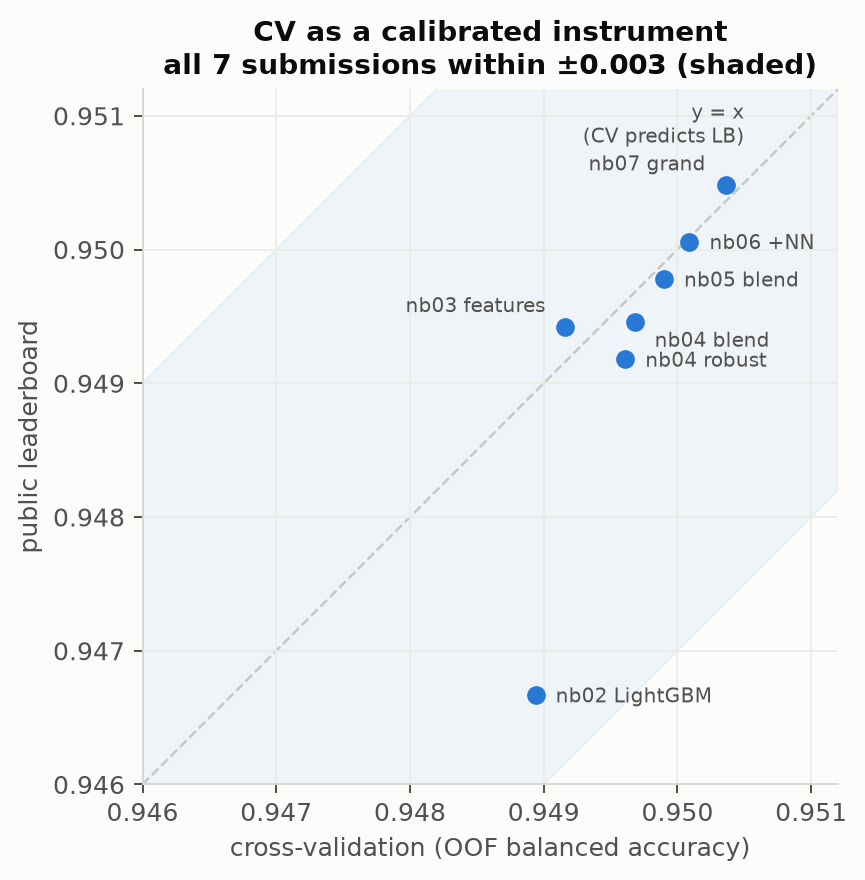
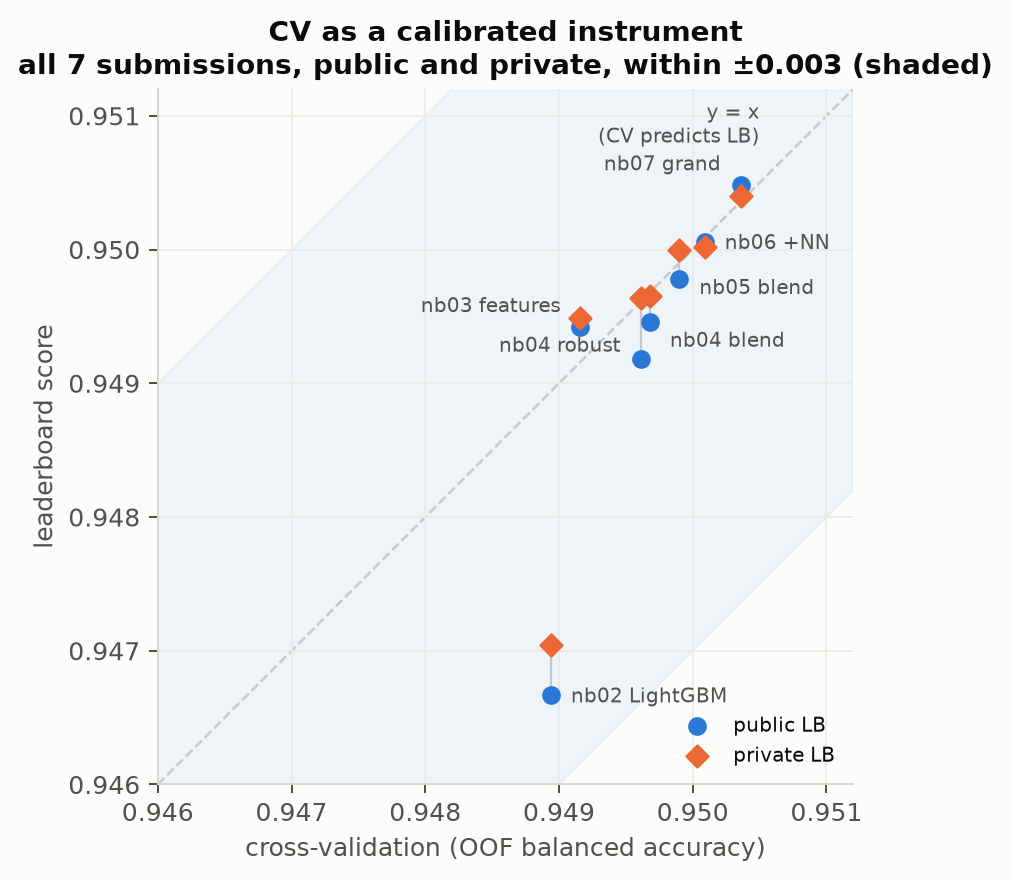
Record final private-leaderboard result: 0.95040, rank 209 of 3356

diff --git a/src/make_figures.py b/src/make_figures.py
@@ -59,10 +59,11 @@ def score_arc():
     zx, zcv = x[2:], cv[2:]
     a2.plot(zx, zcv, drawstyle='steps-post', color=BLUE, lw=2, zorder=3)
     a2.scatter(zx, zcv, color=BLUE, s=28, zorder=4)
-    a2.scatter([zx[-1]], [0.95048], color=ORANGE, s=46, zorder=5, marker='D')
-    a2.annotate('final public LB 0.95048\n(top 15.5% of 2192)', (zx[-1], 0.95048),
-                xytext=(3.6, 0.95055), fontsize=8.5, color=INK, ha='right',
-                fontweight='bold')
+    a2.scatter([zx[-1] + 0.25], [0.95040], color=ORANGE, s=46, zorder=5,
+               marker='D')
+    a2.annotate('final private LB 0.95040\nrank 209 of 3356 (top 6.2%)',
+                (zx[-1] + 0.25, 0.95040), xytext=(3.6, 0.95055), fontsize=8.5,
+                color=INK, ha='right', fontweight='bold')
     for xi, yi in zip(zx, zcv):
         a2.annotate(f'{yi:.5f}', (xi, yi), xytext=(0, -13),
                     textcoords='offset points', ha='center', fontsize=7.5,
@@ -80,36 +81,41 @@ def score_arc():
 
 
 def cv_lb_calibration():
-    subs = [('nb02 LightGBM', 0.94894, 0.94667),
-            ('nb03 features', 0.94916, 0.94942),
-            ('nb04 blend', 0.94968, 0.94946),
-            ('nb04 robust', 0.94961, 0.94918),
-            ('nb05 blend', 0.94990, 0.94978),
-            ('nb06 +NN', 0.95009, 0.95006),
-            ('nb07 grand', 0.95036, 0.95048)]
-    names, cvs, lbs = zip(*subs)
+    subs = [('nb02 LightGBM', 0.94894, 0.94667, 0.94704),
+            ('nb03 features', 0.94916, 0.94942, 0.94949),
+            ('nb04 blend', 0.94968, 0.94946, 0.94965),
+            ('nb04 robust', 0.94961, 0.94918, 0.94964),
+            ('nb05 blend', 0.94990, 0.94978, 0.95000),
+            ('nb06 +NN', 0.95009, 0.95006, 0.95002),
+            ('nb07 grand', 0.95036, 0.95048, 0.95040)]
+    names, cvs, pubs, privs = zip(*subs)
     lo, hi = 0.9460, 0.9512
 
     fig, ax = plt.subplots(figsize=(5.4, 5.0))
     ax.plot([lo, hi], [lo, hi], color='#c9c8c3', lw=1, ls='--', zorder=1)
     ax.fill_between([lo, hi], [lo - 0.003, hi - 0.003], [lo + 0.003, hi + 0.003],
                     color=BLUE, alpha=0.06, zorder=0)
-    ax.scatter(cvs, lbs, color=BLUE, s=42, zorder=3)
+    for c, pu, pr in zip(cvs, pubs, privs):
+        ax.plot([c, c], [pu, pr], color='#c9c8c3', lw=0.9, zorder=2)
+    ax.scatter(cvs, pubs, color=BLUE, s=42, zorder=3, label='public LB')
+    ax.scatter(cvs, privs, color=ORANGE, s=38, zorder=3, marker='D',
+               label='private LB')
     offsets = {'nb02 LightGBM': (8, -3), 'nb03 features': (-8, 6),
-               'nb04 blend': (8, -10), 'nb04 robust': (8, -3),
-               'nb05 blend': (8, -3), 'nb06 +NN': (8, -3),
+               'nb04 blend': (8, -10), 'nb04 robust': (-8, 3),
+               'nb05 blend': (8, -6), 'nb06 +NN': (8, -3),
                'nb07 grand': (-8, 6)}
-    for n, c, l in subs:
+    for n, c, pu, pr in subs:
         dx, dy = offsets[n]
-        ax.annotate(n, (c, l), xytext=(dx, dy), textcoords='offset points',
+        ax.annotate(n, (c, pu), xytext=(dx, dy), textcoords='offset points',
                     fontsize=8, color=INK2,
                     ha='left' if dx > 0 else 'right')
     ax.annotate('y = x\n(CV predicts LB)', (0.9505, 0.9508), fontsize=8,
                 color=INK2, ha='right')
+    ax.legend(loc='lower right', fontsize=8, frameon=False)
     ax.set_xlim(lo, hi); ax.set_ylim(lo, hi)
     ax.set_xlabel('cross-validation (OOF balanced accuracy)')
-    ax.set_ylabel('public leaderboard')
-    ax.set_title('CV as a calibrated instrument\nall 7 submissions within ±0.003 (shaded)')
+    ax.set_ylabel('leaderboard score')
+    ax.set_title('CV as a calibrated instrument\nall 7 submissions, public and private, within ±0.003 (shaded)')
     ax.grid(color='#ebeae6', lw=0.7, zorder=0)
     ax.set_aspect('equal')
     fig.tight_layout()

diff --git a/README.md b/README.md
@@ -1,8 +1,8 @@
 # Kaggle Playground S6E7 — Predicting Student Health Risk
 
 ![Kaggle](https://img.shields.io/badge/Kaggle-Playground_S6E7-20BEFF?logo=kaggle&logoColor=white)
-![Public LB](https://img.shields.io/badge/public_LB-0.95048-2a78d6)
-![Rank](https://img.shields.io/badge/rank-top_15.5%25_of_2192-2a78d6)
+![Private LB](https://img.shields.io/badge/private_LB-0.95040-2a78d6)
+![Final Rank](https://img.shields.io/badge/final_rank-209_of_3356_%28top_6.2%25%29-2a78d6)
 ![Experiments](https://img.shields.io/badge/experiments_logged-13-eb6834)
 ![Python](https://img.shields.io/badge/Python-3.13-3776AB?logo=python&logoColor=white)
 ![License](https://img.shields.io/badge/license-MIT-008300)
@@ -11,10 +11,12 @@ A hypothesis-driven run at [Kaggle Playground S6E7](https://www.kaggle.com/compe
 3-class classification of student health condition (86% / 8.4% / 5.8% class split, 690k rows,
 13 features with heavy missingness), scored by **balanced accuracy**.
 
-**Final: public LB 0.95048 — top 15.5% of 2,192 teams — with every point of the score
-accounted for in an [experiment ledger](experiments.md).** Thirteen logged experiments,
-five falsified hypotheses, seven submissions, and a cross-validation setup that never
-missed the leaderboard by more than 0.003.
+**Final: private LB 0.95040 — rank 209 of 3,356 teams (top 6.2%) — with every point of
+the score accounted for in an [experiment ledger](experiments.md).** Thirteen logged
+experiments, five falsified hypotheses, seven submissions, and a cross-validation setup
+that never missed the leaderboard, public or private, by more than 0.003. When the
+private leaderboard resolved, the final CV estimate (0.95036) was off by 0.00004, and
+the entry climbed 386 places past public-leaderboard chasers.
 
 ![Score arc](assets/score-arc.png)
 
@@ -28,6 +30,7 @@ missed the leaderboard by more than 0.003.
 | + cross-implementation blend | 0.9498 | Implementation diversity (CatBoost, HistGradientBoosting) |
 | + torch NN member | 0.9501 | Function-class diversity |
 | + CatBoost-native exact-value TE + greedy blend | **0.9505** | The one verified feature edge, encoded the tree-safe way |
+| Private leaderboard reveal | **0.95040** | Rank 209 of 3,356 — up 386 places on the shakeup, 0.00004 from the CV estimate |
 
 ## The method
 
@@ -39,7 +42,9 @@ the wrong belief and reshaped the entire strategy (notebook 01, §9).
 **Treat cross-validation as an instrument, and calibrate it.** One fixed 5-fold stratified
 assignment, persisted to disk and asserted identical in every later notebook. Every model
 reports out-of-fold balanced accuracy on those folds; the fold spread sets the noise floor
-(±0.0005) that decides what counts as a real improvement.
+(±0.0005) that decides what counts as a real improvement. The instrument passed its final
+test at the private-leaderboard reveal: 0.95040 against a CV estimate of 0.95036, while
+teams that had tuned against the public leaderboard fell past us on the way down.
 
 ![CV vs LB calibration](assets/cv-lb-calibration.png)
 
@@ -77,7 +82,7 @@ a below-par NN, weight 0.15) still earn places on decorrelation value alone.
 
 1. **Probe the metric before trusting it.** One "dumb" submission distinguished accuracy from balanced accuracy and reshaped the whole strategy.
 2. **Alignment beats sophistication.** Loss↔metric (class weights) and decision-rule↔metric (thresholds) earned more than every clever idea combined.
-3. **A CV you trust is the actual asset.** Fixed folds, OOF everything; seven submissions, never off by more than 0.003.
+3. **A CV you trust is the actual asset.** Fixed folds, OOF everything; seven submissions, never off by more than 0.003 on either leaderboard — and a 386-place climb when the private board punished public-LB overfitting.
 4. **Negative results are purchases.** Imputation −0.041 (destroys missingness signal), feature ladder 0, tuning ≤0 three times — each redirected effort with evidence.
 5. **Features and function classes are a joint hypothesis.** Exact-value target encoding: −0.0044 on LightGBM, +0.0001 on our MLP, **+0.0006 via CatBoost's ordered statistics** — same idea, three outcomes.
 6. **Diversity pays only above a quality floor.** Weak-but-different members were zeroed by every combiner; the committee prices contribution, not novelty.

diff --git a/experiments.md b/experiments.md
@@ -61,6 +61,20 @@ Keep-rule: an experiment is kept only if ΔCV ≥ +0.0005 (≈ OOF-level standar
 | E10 | true RealMLP reaches the published 0.9506 frontier | pytabkit RealMLP-TD, 6 epochs CPU, prior-corrected | 0.94731 | — | — | short of published (CPU budget); greedy blend weight 0 — quality floor law confirmed again |
 | E11 | HGB (blend weight 0.5) rewards tuning | 9-config grid, winner max_leaf_nodes=23, l2=1 | 0.94963 | +0.00007 | — | below bar; third "defaults were fine." Kept in pool at zero cost |
 | E12 | seed-averaging stabilizes the noisiest member | nn_te × seeds 42/1/2 | 0.94825 avg | — | — | steadier member for the blend |
-| E13 | greedy selection prices 8 members better than a grid | Caruana w/ replacement, 80 rounds | **0.95036** | +0.00027 | **0.95048** | **final: rank ~339/2192 (top 15.5%).** Thresholds converged to 1.0 — alignment migrated into the members |
+| E13 | greedy selection prices 8 members better than a grid | Caruana w/ replacement, 80 rounds | **0.95036** | +0.00027 | **0.95048** | **final; public rank ~339/2192 at the time.** Thresholds converged to 1.0 — alignment migrated into the members |
 
 **Final standing: public LB 0.95048 (CV 0.95036). Arc: 0.333 → 0.875 → 0.949 → 0.9497 → 0.9498 → 0.9501 → 0.9505.**
+
+## Private leaderboard reveal (2026-08-01)
+
+| Submission | CV | Public | Private |
+|---|---|---|---|
+| 02 lgbm baseline | 0.94894 | 0.94667 | 0.94704 |
+| 03 features | 0.94916 | 0.94942 | 0.94949 |
+| 04 final blend | 0.94968 | 0.94946 | 0.94965 |
+| 04 robust | 0.94961 | 0.94918 | 0.94964 |
+| 05 stack | 0.94990 | 0.94978 | 0.95000 |
+| 06 nn blend | 0.95009 | 0.95006 | 0.95002 |
+| 07 grand blend | 0.95036 | 0.95048 | **0.95040** |
+
+**Final: private LB 0.95040 — rank 209 of 3356 (top 6.2%), up 386 places from public rank 595.** CV predicted the private score within 0.00004. The shakeup the competitor scan warned about (shared-file public blends carrying S6E6-style private-split risk) happened: the public blends above us fell, the CV-anchored entry rose.

diff --git a/WORKFLOW.md b/WORKFLOW.md
@@ -16,8 +16,9 @@ competitors' edge?"), and made every go/no-go call — including when to extend 
 original plan and when to stop.
 
 The notebooks read as lessons because that's what they were: the deliverable was
-understanding first, leaderboard position second. The final rank (top 15.5%) is the
-evidence that the understanding was real.
+understanding first, leaderboard position second. The final rank (209 of 3,356 on the
+private leaderboard, top 6.2%, a 386-place climb at the reveal) is the evidence that
+the understanding was real.
 
 ## Spec → plan → milestones
 
